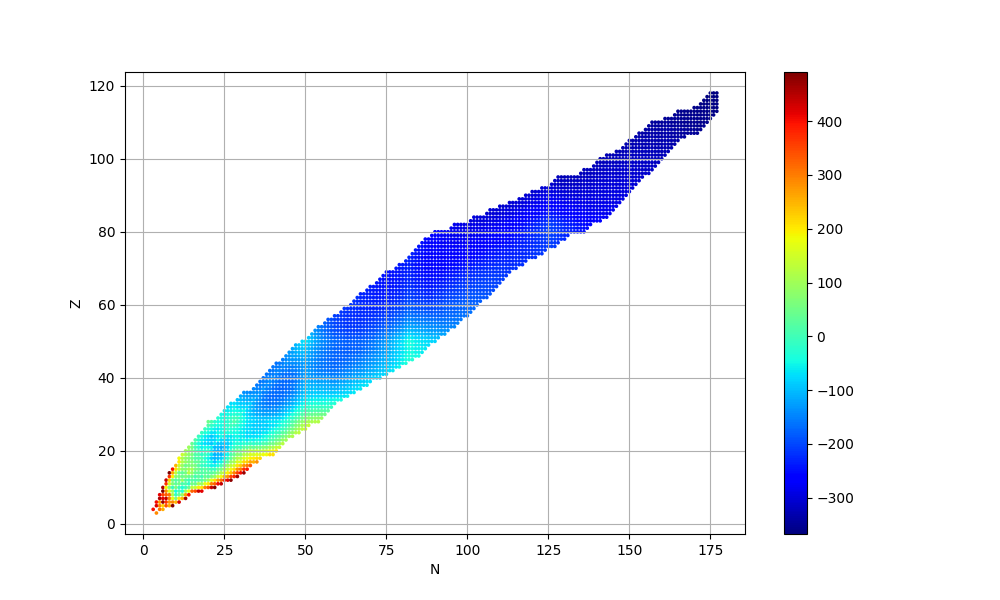
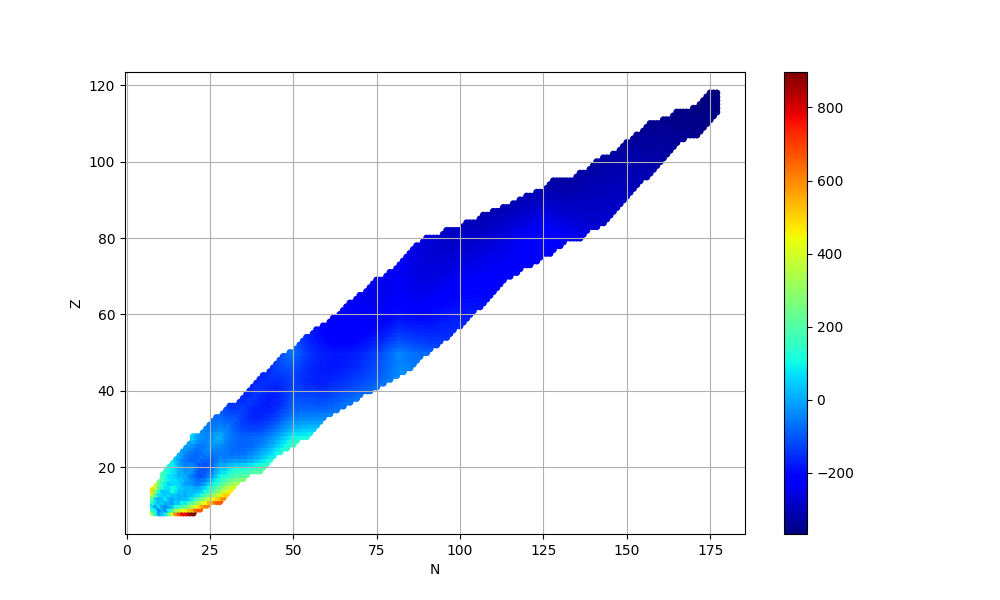
Plot changed

diff --git a/extracting_data.py b/extracting_data.py
@@ -1,6 +1,7 @@
 import pandas as pd
 import numpy as np
 import matplotlib.pyplot as plt
+from mpl_toolkits.mplot3d import Axes3D
 
 df = pd.read_fwf(
     'mass_1.mas20.txt',
@@ -18,16 +19,16 @@ df['Z'] = df['Z'].astype(int)
 df['A'] = df['A'].astype(int)
 df['bind_ene'] = df['bind_ene'].astype(float)
 
-# Càlculs amb el model teòric
+# Theoretical model calculations
 av = 15.8 #MeV
 aS = 18.3
 ac = 0.66
 aA = 23.2
 ap = 11.2
 
-df['delta'] = np.where((df['Z'] % 2 == 0) & (df['N'] % 2 == 0), -1,  # Z parell i N parell
-                np.where(df['A'] % 2 == 1, 0,  # A senar
-                np.where((df['Z'] % 2 == 1) & (df['N'] % 2 == 1), 1, np.nan)))  # Z senar i N senar
+df['delta'] = np.where((df['Z'] % 2 == 0) & (df['N'] % 2 == 0), -1,  # Z even and N even
+                np.where(df['A'] % 2 == 1, 0,  # A odd
+                np.where((df['Z'] % 2 == 1) & (df['N'] % 2 == 1), 1, np.nan)))  # Z odd and N odd
 
 df['delta'] = df['delta'].astype(int)
 
@@ -36,27 +37,35 @@ N = df['N']
 A = df['A']
 delta = df['delta']
 
+df = df[(df['N'] >= 8) & (df['N'] < 180) & (df['Z'] >= 8) & (df['Z'] < 120)] #Restrictions 
+
 bind_ene_teo = (av*A-aS*A**(2/3)-ac*Z**2*A**(-1/3)-aA*(A-2*Z)**2/A-ap*delta*A**(-1/2))/A*1000 #keV
 
 df['bind_ene_teo'] = bind_ene_teo
-df['Diferencia_bind_ene'] = df['bind_ene'] - df['bind_ene_teo']
-
-df = df[(df['Diferencia_bind_ene'] <= 500) & (df['Diferencia_bind_ene'] >= -500)]
+df['Diff_bind_ene'] = df['bind_ene'] - df['bind_ene_teo']
 
 df.to_csv('data_cleaned.csv', sep=';', index=False)
 print(df.head())
 
-
 plt.figure(figsize=(10, 6))
-scatter = plt.scatter(df['N'], df['Z'], c=df['Diferencia_bind_ene'], cmap='jet', edgecolor='None', s=7)
-
+scatter = plt.scatter(df['N'], df['Z'], c=df['Diff_bind_ene'], cmap='jet', edgecolor='None', s=25)
 cbar = plt.colorbar(scatter)
-
 plt.xlabel('N')
-plt.ylabel('Z')
-
+plt.ylabel('Z') 
 plt.grid()
 plt.savefig('bind_teoexp_dif.png')
 plt.show()
+
+#3D plot
+fig = plt.figure(figsize=(10, 6))
+ax = fig.add_subplot(111, projection='3d')  
+scatter = ax.scatter(df['Z'], df['N'], df['Diff_bind_ene'], c=df['Diff_bind_ene'], cmap='jet', edgecolor='None', s=25)
+ax.set_xlabel('Z')
+ax.set_ylabel('N')
+cbar = plt.colorbar(scatter, ax=ax)
+plt.savefig('bind_teoexp_dif_3D.png') 
+plt.show()
+
+
 
 
